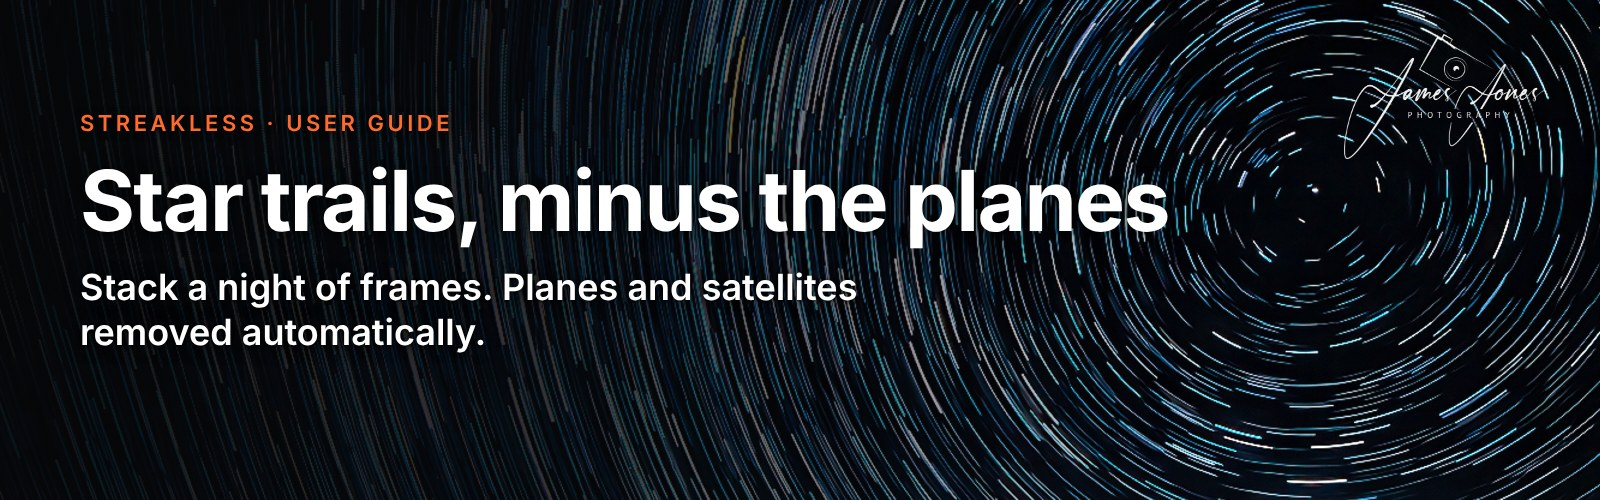
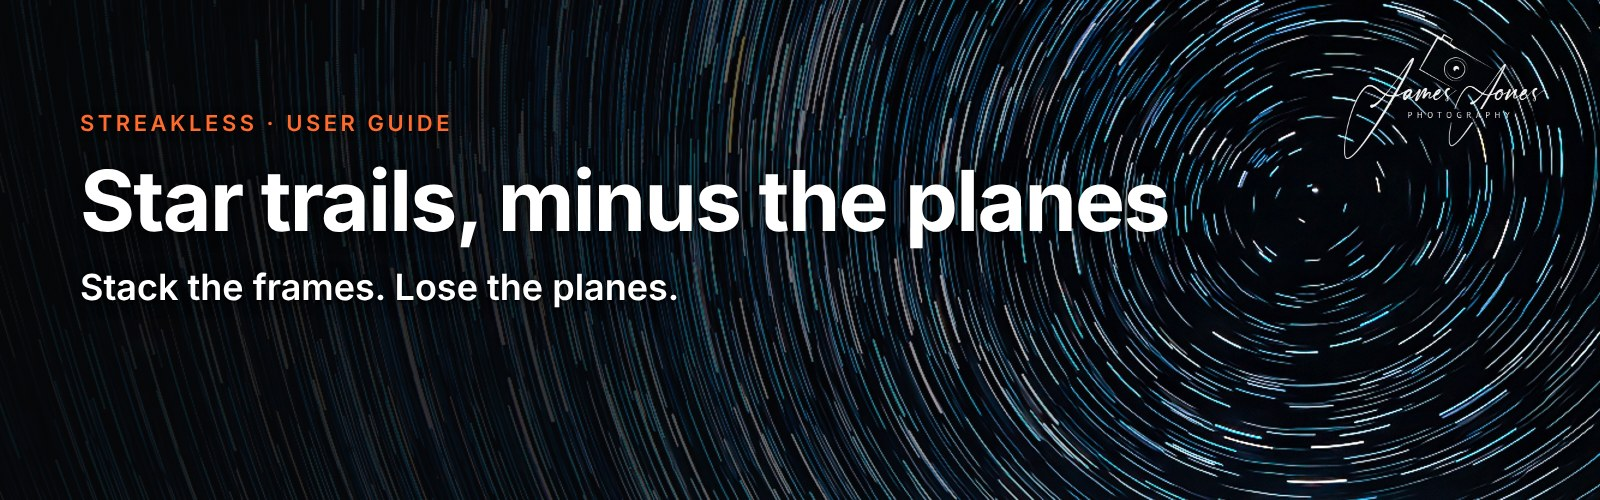
Tagline: Stack the frames. Lose the planes.

Changed region(s): [[0.0312, 0.54, 0.5625, 0.69]]

diff --git a/README.md b/README.md
@@ -2,7 +2,7 @@
 
 # Streakless
 
-**Star trails without the planes.** Free from [James Jones Photography](https://jamesjones.photography).
+**Stack the frames. Lose the planes.** Free from [James Jones Photography](https://jamesjones.photography).
 
 Star trail stacking that finds and removes aeroplane and satellite streaks automatically, keeps your meteors, and saves a full-quality 32-bit TIFF for Lightroom. It reads your camera's RAW files directly (Canon CR2/CR3, Nikon, Sony, Fuji, DNG and more), so there's no converting first.
 
